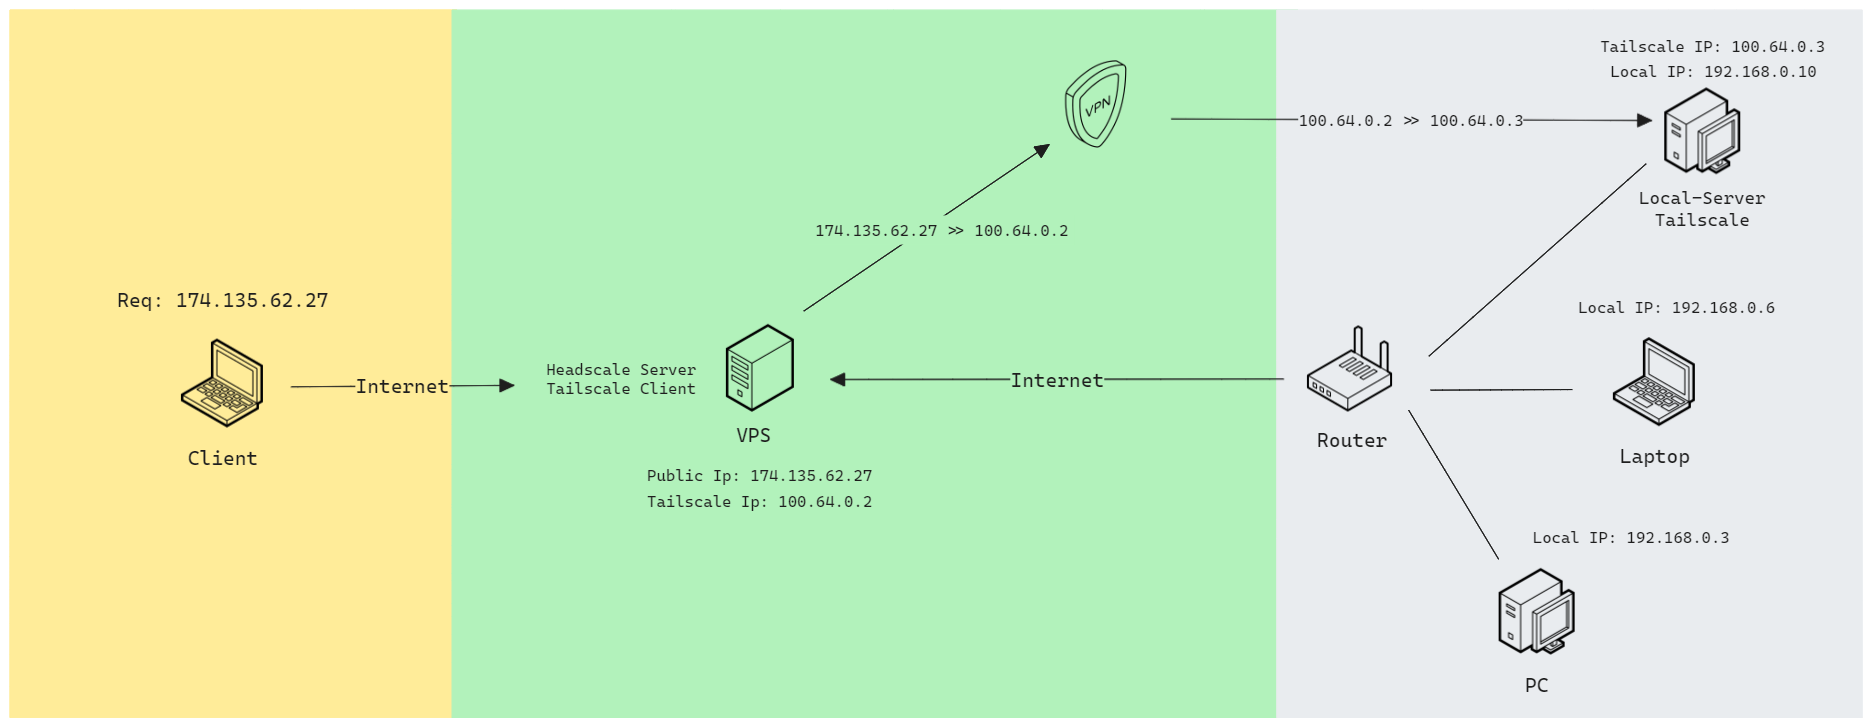
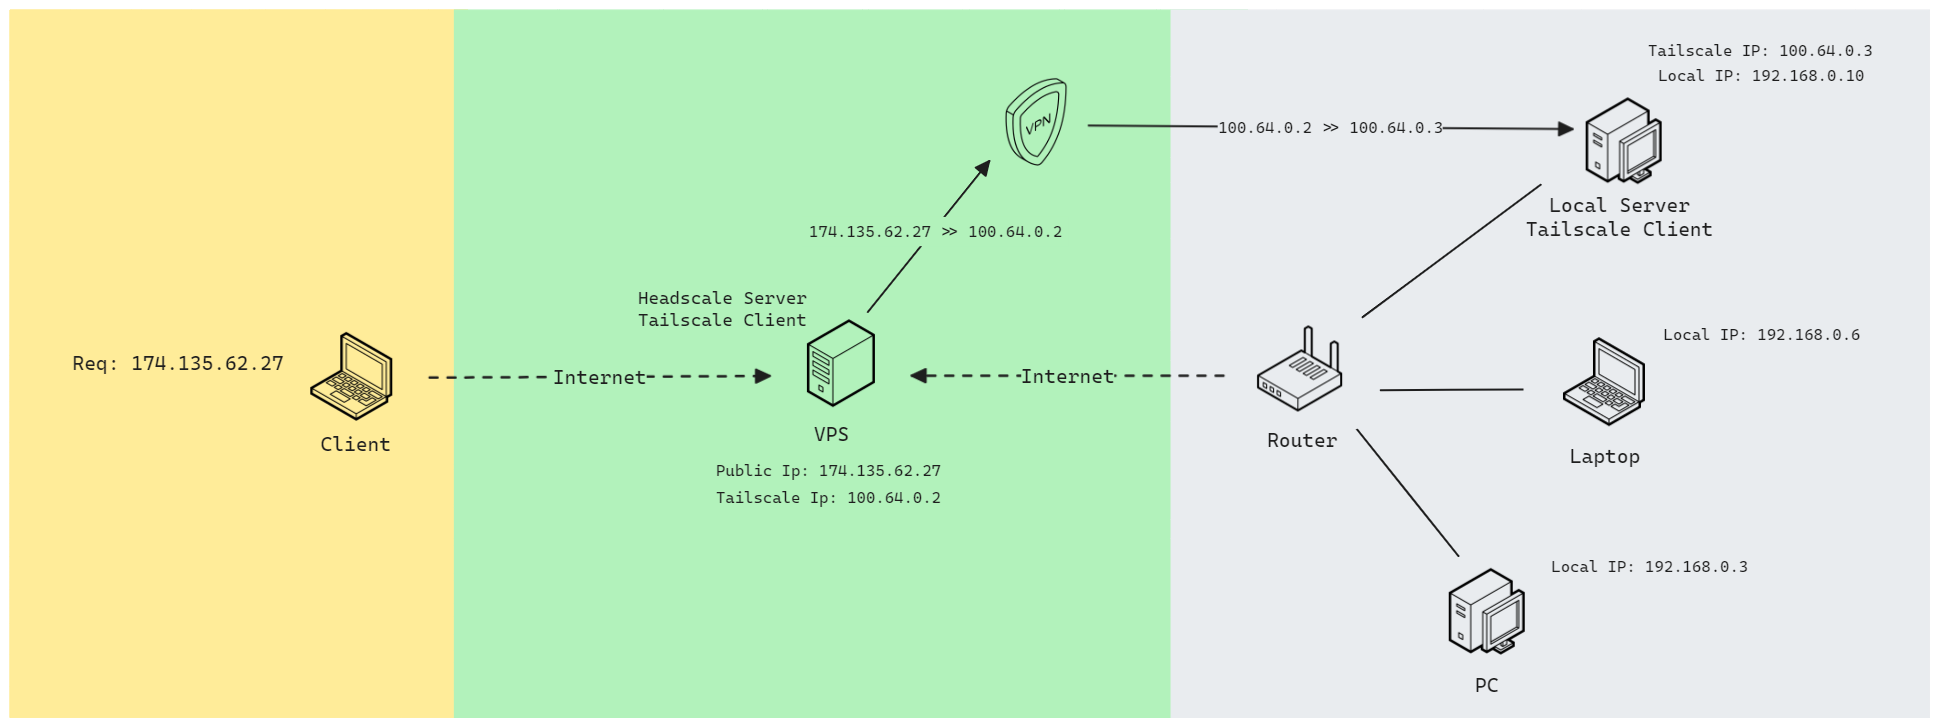
skematik

diff --git a/README.md b/README.md
@@ -4,13 +4,14 @@ Esta documentación tiene como objetivo mostrar al usuario cómo configurar y ej
 
 >Nota: `Interface grafica en desarrollo.`
 
+  ![esquema de pechinet](FechiNet_esquema.svg)
+  <div align="center">Esquema de la arquitectura de PechiNet.</div>
+
 ## Beneficios de usar Pechinet
 
 - **CERO CONFIGURACIÓN DE TU RED LOCAL.**
 - **NO ES NECESARIO: ABRIR PUERTOS O TENER UNA IP PUBLICA EN TU DOMILICIO.**
 - **FUNCIONA SI ESTAS CONECTADO A UNA RED MOVIL, WIFI O ETHERNET.**
-
-  ![esquema de pechinet](FechiNet_esquema.png)
 
 ## Requerimientos
 
